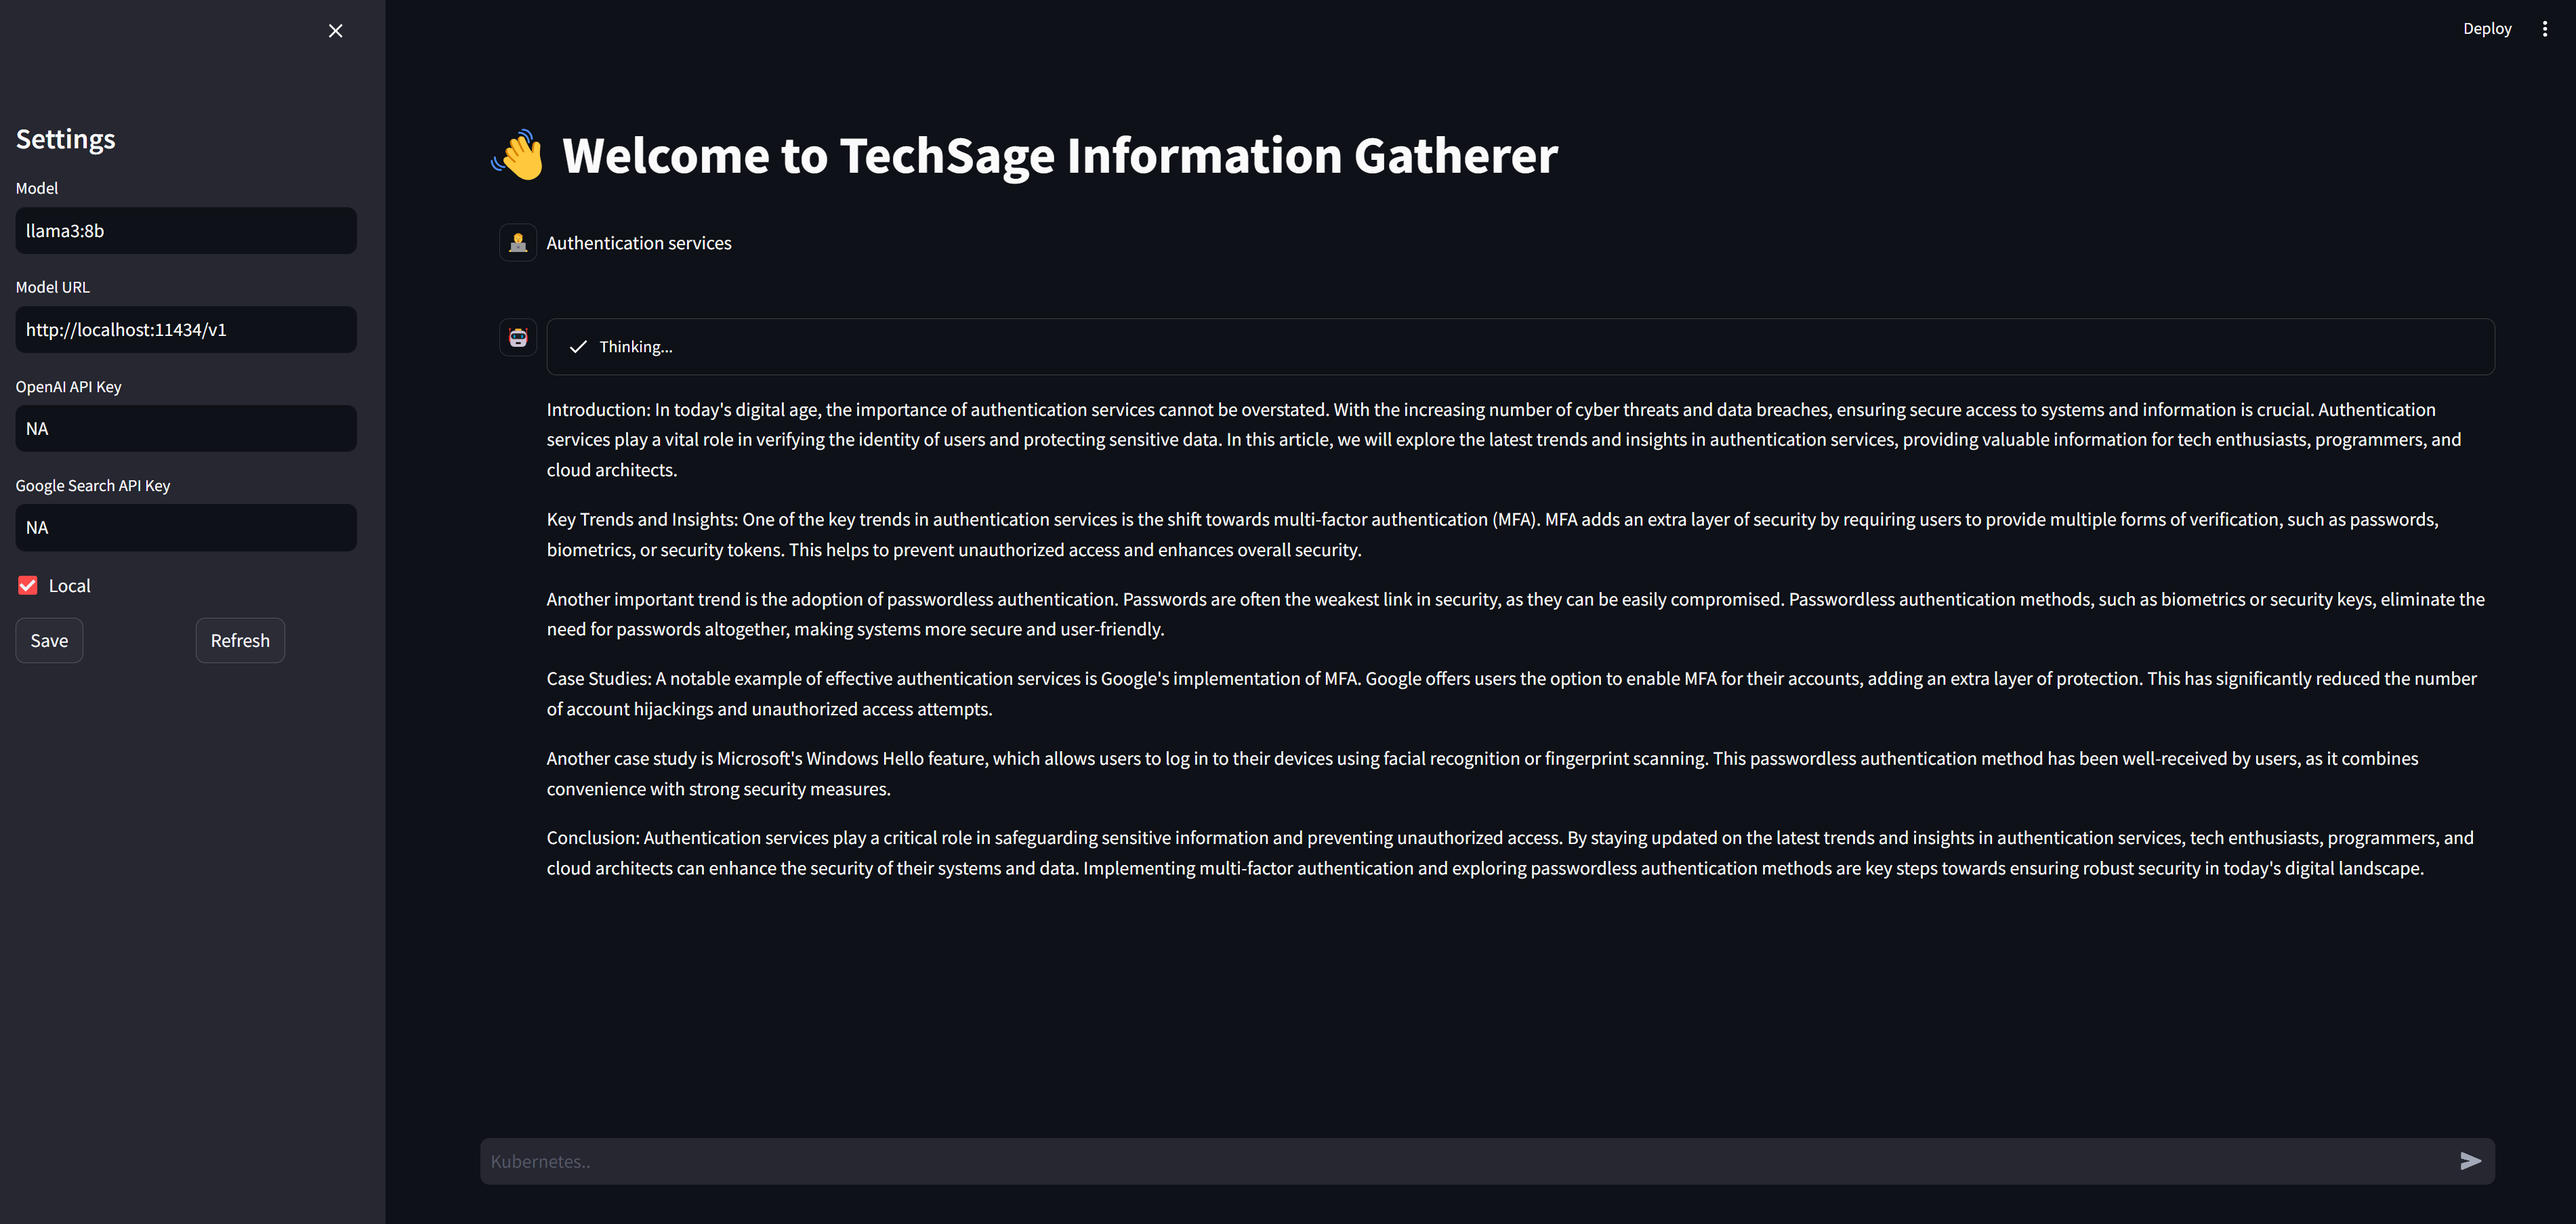
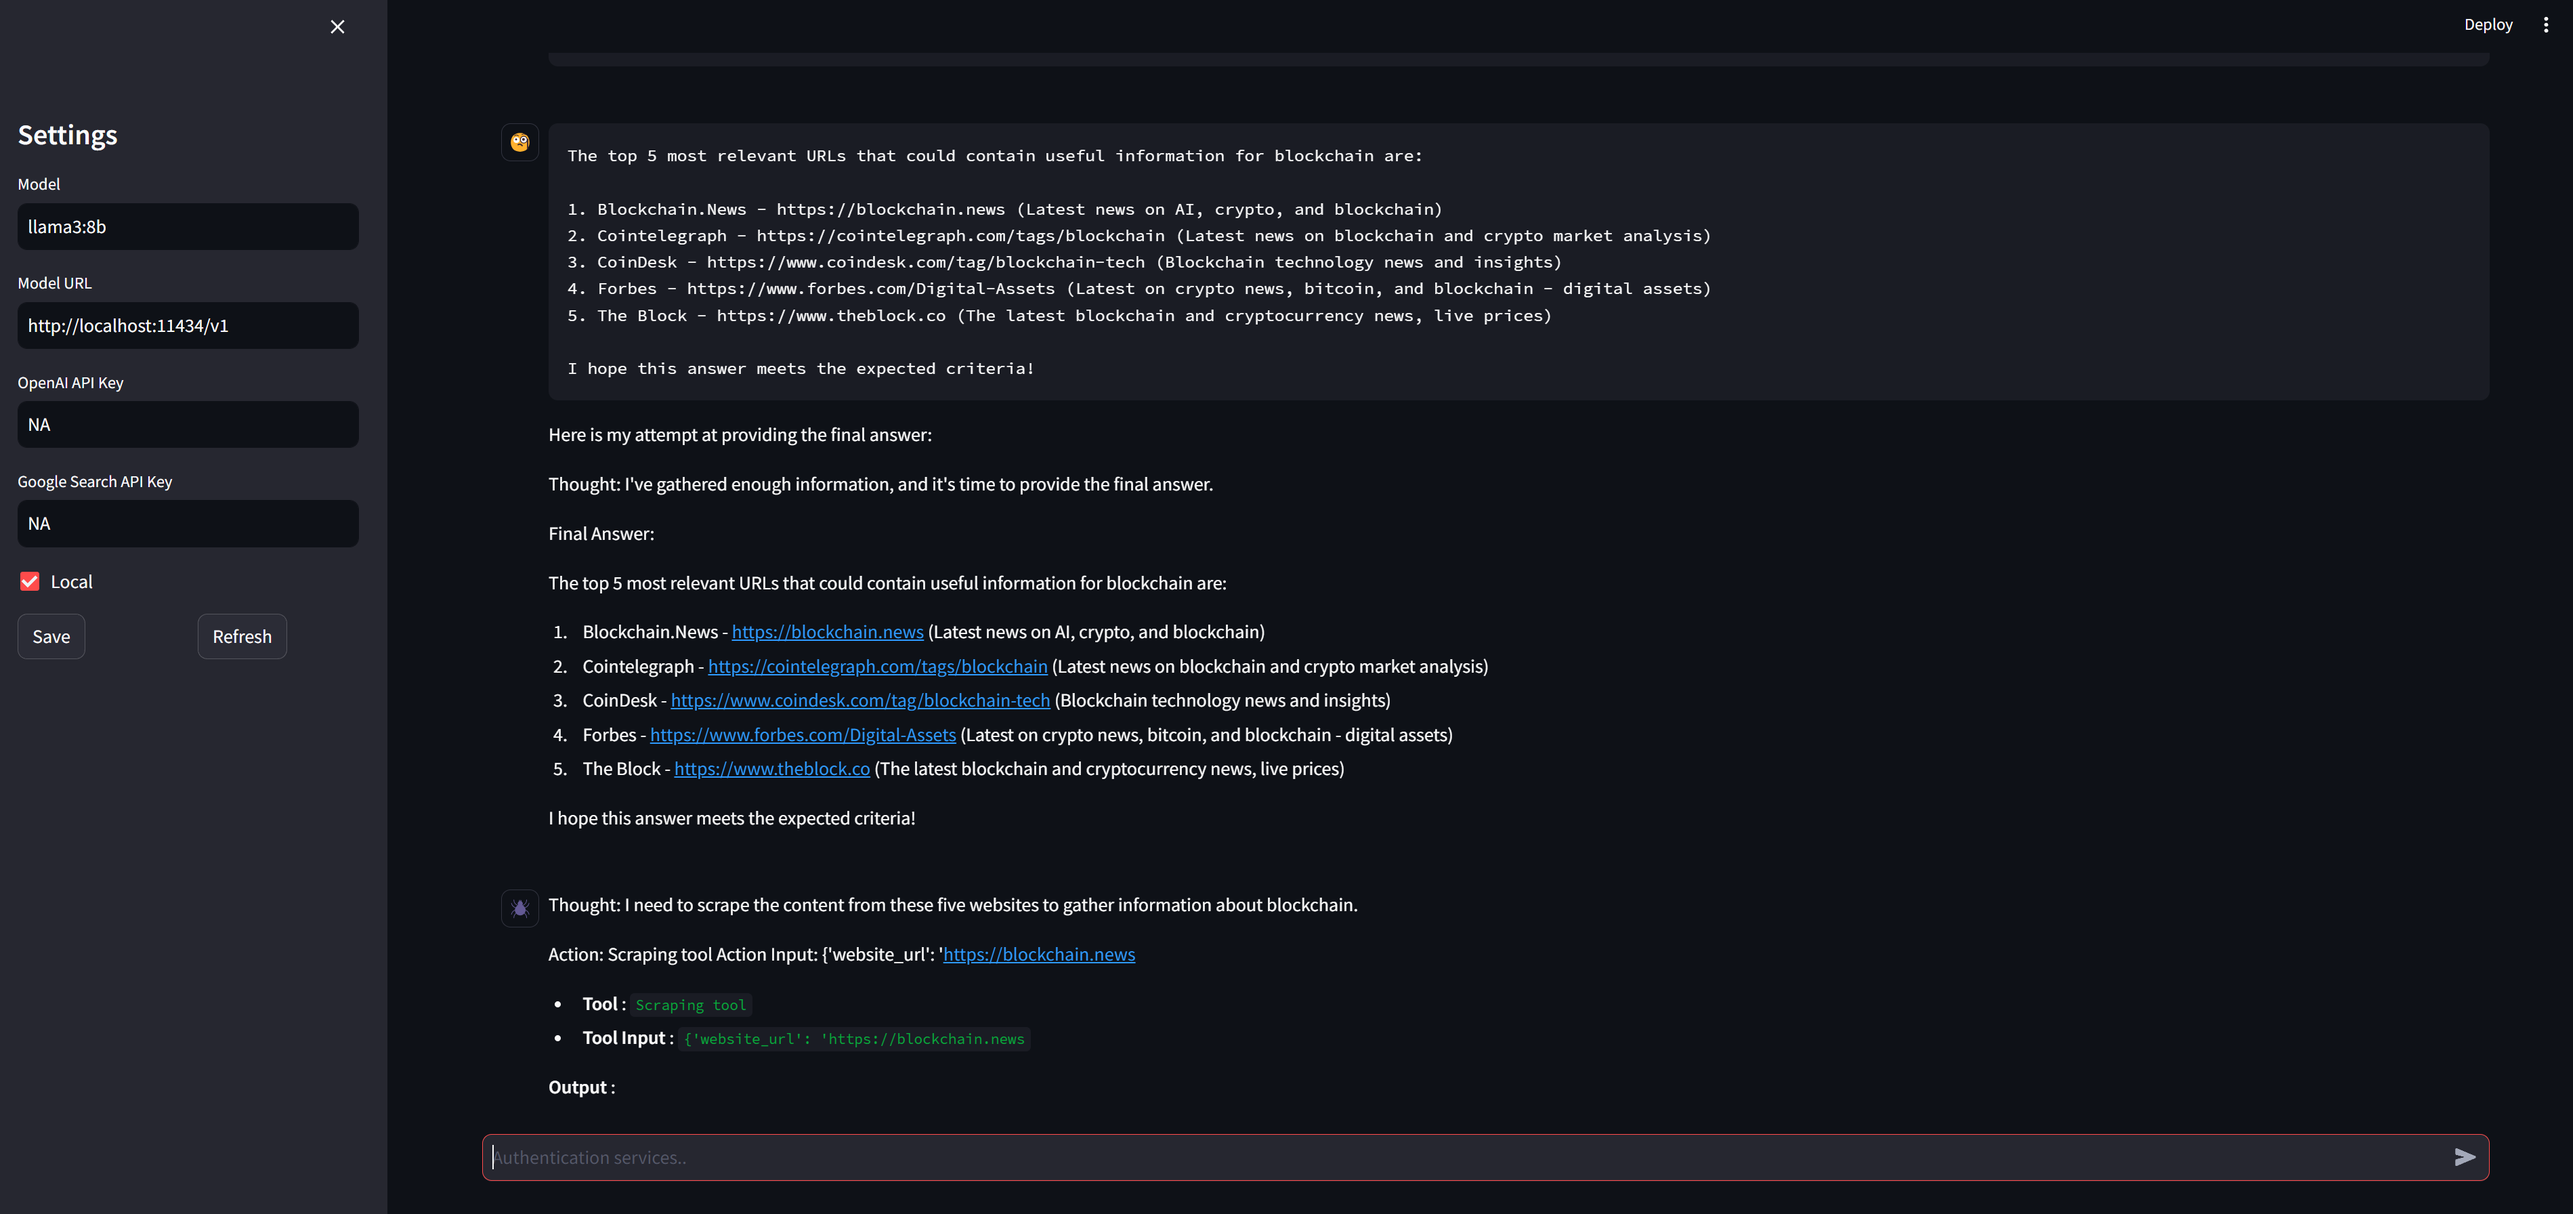
add the agent step logging in the chat

diff --git a/techsage/agent_core/agents.py b/techsage/agent_core/agents.py
@@ -1,4 +1,7 @@
+from typing import Callable, List, Optional, Tuple
+
 from crewai import Agent
+from crewai.agent import AgentAction
 
 from techsage.agent_core.llm import llm
 from techsage.agent_core.tools import google_search_tool, scrap_website_tool
@@ -7,13 +10,64 @@ from techsage.agent_core.tools import google_search_tool, scrap_website_tool
 class TechSageAgents:
     """Definition of all the agents"""
 
+    def __init__(self, add_to_chat: Optional[Callable]) -> None:
+        """Initialize the techsage agents
+
+        :param Optional[Callable] add_to_chat: A method allowing to send message into the app chat
+        """
+        self.add_to_chat = add_to_chat
+
+    def _step_call_back(self, actions: List[Tuple], agent_name: str, avatar: str) -> None:
+        """A method called after each step for logging purposes.
+
+        :param List[Tuple] actions: The actions output of the step.
+        :param str agent_name: The name of the agent performing this step.
+        :param str avatar: The avatar to use in the chat.
+        """
+        if not self.add_to_chat:
+            return
+
+        msg = [self._format_action(a) for a in actions]
+        self.add_to_chat("\n\n".join(msg), agent_name, avatar)
+
+    def _format_action(self, action: Tuple) -> str:
+        """Format a single action into a string message.
+
+        :param Tuple action: A single action tuple.
+        :return: The formatted action message.
+        :rtype: str
+        """
+        if action[0] == "return_values":
+            return f"```\n{action[1]['output']}\n```"
+        elif action[0] == "log":
+            return action[1]
+        elif isinstance(action[0], AgentAction):
+            return self._format_agent_action(action)
+        return ""
+
+    def _format_agent_action(self, action: Tuple) -> str:
+        """Format an AgentAction into a string message.
+
+        :param Tuple action: A single AgentAction tuple.
+        :return: The formatted AgentAction message.
+        :rtype: str
+        """
+        action_dict, output = dict(action[0]), action[1]
+        action_msg = action_dict.get("log", "")
+        if action_dict.get("tool"):
+            tool_input = action_dict["tool_input"].replace("\n", " ")
+            action_msg += f"\n - **Tool** : `{action_dict['tool']}`\n - **Tool Input** : `{tool_input}`\n"
+        action_msg += f"\n**Output** :\n\n```\n{output}\n```"
+        return action_msg
+
     def searcher(self) -> Agent:
         """An agent dedicated to webssearch
 
         :return Agent: The created agent
         """
+        role, avatar = "Searcher", "🧐"
         return Agent(
-            role="Searcher",
+            role=role,
             goal="Find relevant sources of information through web searches on technology,\
             programming, and cloud architecture.",
             backstory="""
@@ -25,6 +79,7 @@ class TechSageAgents:
             tools=[google_search_tool],
             allow_delegation=False,
             llm=llm,
+            step_callback=lambda x: self._step_call_back(x, role, avatar),
         )
 
     def scraper(self) -> Agent:
@@ -32,6 +87,7 @@ class TechSageAgents:
 
         :return Agent: The created agent
         """
+        role, avatar = "Scraper", "🕷"
         return Agent(
             role="Scraper",
             goal="Scrape the content of identified websites to extract useful information.",
@@ -44,6 +100,7 @@ class TechSageAgents:
             tools=[scrap_website_tool],
             allow_delegation=False,
             llm=llm,
+            step_callback=lambda x: self._step_call_back(x, role, avatar),
         )
 
     def content_generator(self) -> Agent:
@@ -51,6 +108,7 @@ class TechSageAgents:
 
         :return Agent: The created agent
         """
+        role, avatar = "Content Generator", "✏"
         return Agent(
             role="Content Generator",
             goal="Generate insightful content based on the latest trends and information.",
@@ -63,4 +121,5 @@ class TechSageAgents:
             tools=[],
             allow_delegation=False,
             llm=llm,
+            step_callback=lambda x: self._step_call_back(x, role, avatar),
         )

diff --git a/techsage/app.py b/techsage/app.py
@@ -42,8 +42,8 @@ class TechSageChatApp:
                 st.button("Refresh", on_click=self._load_current_config)
 
         self._display_chat_history()
-        if prompt := st.chat_input("Kubernetes.."):
-            self._send_message(prompt)
+        if prompt := st.chat_input("Authentication services.."):
+            self._run(prompt)
 
     def _save_config(self) -> None:
         """Save the current configuration"""
@@ -90,32 +90,29 @@ class TechSageChatApp:
                     message["message"] = message["message"]()
             st.write(ansi_to_html(message["message"]))
 
-    def _add_to_chat(self, message: Union[str, Callable], is_user: bool = True) -> None:
+    def add_to_chat(self, message: Union[str, Callable], username: str = "You", avatar: str = "🧑💻") -> None:
         """Add a message to the chat history and update the UI
 
         :param Union[str, Callable] message: The message to add or the method that will create the message
-        :param bool is_user: Whether the message is from the user or the bot
+        :param str username: The name of the user to display
         """
-        if is_user:
-            message = {"role": "You", "message": message, "avatar": "🧑💻"}
-        else:
-            message = {"role": "TechSage", "message": message, "avatar": "🤖"}
-        st.session_state.chat_history.append(message)
-        self._display_message(message)
+        msg = {"role": username, "message": message, "avatar": avatar}
+        st.session_state.chat_history.append(msg)
+        self._display_message(msg)
 
-    def _send_message(self, message: str) -> None:
-        """Send the message that is in the bar
+    def _run(self, topic: str) -> None:
+        """Launch the research on a topic
 
-        :param str message: The message to send
+        :param str topic: The name of the topic
         """
-        if message.strip() != "":
-            self._add_to_chat(message, is_user=True)
+        if topic.strip() != "":
             try:
-                promise = lambda: self.get_topic_info(message)
-                self._add_to_chat(promise, is_user=False)
+                self.add_to_chat(topic)
+                techsage_crew = TechSageCrew(topic, add_to_chat=self.add_to_chat)
+                techsage_crew.run()
             except Exception as e:
                 error_message = f"❌ An error occurred during the search:\n{e}\n{traceback.format_exc()}"
-                self._add_to_chat(error_message, is_user=False)
+                self.add_to_chat(error_message, username="Error bot")
 
     def get_topic_info(self, topic: str) -> str:
         """Get the topic info of the current topic using multi agent system
@@ -123,7 +120,7 @@ class TechSageChatApp:
         :param str topic: The topic value
         :return str: The collected info on the topic
         """
-        techsage_crew = TechSageCrew(topic)
+        techsage_crew = TechSageCrew(topic, add_to_chat=self.add_to_chat)
         result = techsage_crew.run()
         print(result)
         return result

diff --git a/techsage/agent_core/crew.py b/techsage/agent_core/crew.py
@@ -1,5 +1,5 @@
 import os
-from typing import Dict
+from typing import Callable, Dict, Optional
 
 from crewai import Agent, Crew, Process, Task
 
@@ -11,19 +11,21 @@ from techsage.agent_core.tasks import TechSageTasks
 class TechSageCrew:
     """Definition of the crew"""
 
-    def __init__(self, topic: str) -> None:
+    def __init__(self, topic: str, add_to_chat: Optional[Callable] = None) -> None:
         """Initialize the crew
 
         :param str topic: The topic on which the crew should work
+        :param Optional[Callable] add_to_chat: A method allowing to send message into the app chat, default None
         """
         self.topic = topic
+        self.add_to_chat = add_to_chat
 
     def _initialize_agents(self) -> dict:
         """Initialize all the agents
 
         :return dict: The created agents
         """
-        agents = TechSageAgents()
+        agents = TechSageAgents(self.add_to_chat)
         return {
             "searcher": agents.searcher(),
             "scraper": agents.scraper(),

diff --git a/techsage/agent_core/tools.py b/techsage/agent_core/tools.py
@@ -10,7 +10,7 @@ from duckduckgo_search import DDGS
 from lxml import etree
 
 
-@tool("Scraping tool")
+# @tool("Scraping tool")
 def scrap_website_tool(website_url: str) -> str:
     """Scrap the content of a website
 
@@ -18,6 +18,7 @@ def scrap_website_tool(website_url: str) -> str:
     :return str: The HTML dom of the scraped website
     """
     try:
+        website_url = website_url.replace('"', "")
         page = requests.get(
             website_url,
             timeout=15,

diff --git a/techsage/configure.py b/techsage/configure.py
@@ -50,7 +50,7 @@ def pull_model(model_name: str) -> None:
         )
         print(" ✅ Base model is ready")
     except subprocess.CalledProcessError:
-        print(f" ❌ Failed to pull model {model_name}, please check if ollama is launched")
+        print(f" ❌ Failed to pull model {model_name}, check if it exists and if ollama is launched")
         sys.exit(1)
 
 
